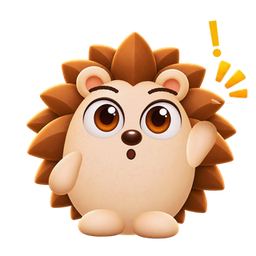
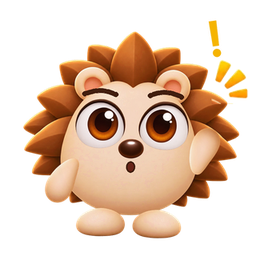
Owi más chato como en las fotos: barriga más corta, cara más grande y cejas más gruesas
Claude-Session: https://claude.ai/code/session_01HLnQv3HZtotnGzv56s2ETj

Changed region(s): [[0.0938, 0.1562, 0.9375, 0.9375], [0.4375, 0.1875, 0.4688, 0.25], [0.5625, 0.1562, 0.5938, 0.1875]]

diff --git a/tools/owi/rig2d/rig.py b/tools/owi/rig2d/rig.py
@@ -22,7 +22,8 @@ SS = 2              # supermuestreo
 C = FS * SS
 FPS = 20
 COLS = 8
-FOOT_Y = 1182       # línea de los pies en coordenadas del modelo (1254 px)
+FOOT_Y = 1150       # línea de los pies en coordenadas del modelo (1254 px)
+SQUAT_Y0, SQUAT = 600, 0.76   # Owi "chato": la barriga por debajo de la cara se encoge en vertical
 TOP_Y = 47
 K = 0.80 * C / (FOOT_Y - TOP_Y)   # modelo -> lienzo
 GROUND = 0.955 * C
@@ -31,18 +32,20 @@ DK = (66, 30, 14, 255)              # marrón de rasgos (cejas, boca, pestañas)
 FONT = '/usr/share/fonts/opentype/inter/InterDisplay-Bold.otf'
 
 # --- Colocación de las piezas sobre el cuerpo (coordenadas del modelo) ---
-EYE_W = 232
-EYE = {'L': (470, 528), 'R': (786, 528)}
-IRIS_W = 142
+FACE = 1.16                                     # tamaño de la cara respecto a la primera versión
+EYE_W = round(232 * FACE)
+EYE = {'L': (458, 548), 'R': (798, 548)}
+IRIS_W = round(142 * FACE)
 IRIS_REST = {'L': (14, 10), 'R': (-14, 10)}     # mirada en reposo, un poco hacia dentro
-NOSE = (628, 632, 118)
-MOUTH = (628, 722)
-SHOULDER = {'L': (300, 742), 'R': (954, 742)}
-ARM_W = 150
+NOSE = (628, 676, round(118 * FACE))
+MOUTH = (628, 772)
+BROW_Y = 392
+SHOULDER = {'L': (292, 760), 'R': (962, 760)}
+ARM_W = 146
 ARM_REST = {'L': -18, 'R': 18}                  # grados; positivo = la mano va hacia la derecha de la pantalla
-FOOT = {'L': (478, 1112), 'R': (778, 1112)}
+FOOT = {'L': (476, 1078), 'R': (780, 1078)}
 FOOT_W = 262
-CHEEK = {'L': (380, 668), 'R': (876, 668)}
+CHEEK = {'L': (366, 712), 'R': (890, 712)}
 
 P = load()
 
@@ -58,7 +61,21 @@ def M(x, y):
 
 
 # Piezas preescaladas
-BODY = P['body'].resize((round(1254 * K), round(1254 * K)), Image.LANCZOS)
+def squat(im):
+    """Encoge en vertical la parte de abajo del cuerpo (desde SQUAT_Y0) para que Owi sea más chato, como en las fotos."""
+    a = np.asarray(im)
+    H = a.shape[0]
+    ys = np.arange(H, dtype=np.float32)
+    src = np.where(ys <= SQUAT_Y0, ys, SQUAT_Y0 + (ys - SQUAT_Y0) / SQUAT)
+    out = np.zeros_like(a)
+    ok = src < H - 1
+    y0 = np.floor(src[ok]).astype(int)
+    t = (src[ok] - y0)[:, None, None]
+    out[ok] = (a[y0] * (1 - t) + a[y0 + 1] * t).astype(np.uint8)
+    return Image.fromarray(out)
+
+
+BODY = squat(P['body']).resize((round(1254 * K), round(1254 * K)), Image.LANCZOS)
 BODY_POS = (round(C / 2 - 627 * K), round(GROUND - FOOT_Y * K))
 EYES = {s: sc(P['eye' + s], EYE_W) for s in 'LR'}
 IRIS = sc(P['iris'], IRIS_W)
@@ -175,15 +192,15 @@ def draw_eye(fig, s, lid=0.0, gaze=(0, 0), iris_k=1.0, closed=None, sparkle=Fals
 
 
 # ---------------------------------------------------------------- cejas
-def draw_brows(fig, raise_=0.0, inner=0.0, arch=1.0, asym=0.0, w=19):
+def draw_brows(fig, raise_=0.0, inner=0.0, arch=1.0, asym=0.0, w=26):
     """raise_: sube (+) / baja (-) en px de modelo. inner: + sube la punta interior (preocupado), - la baja (decidido)."""
     d = ImageDraw.Draw(fig)
     for s in 'LR':
         ex, _ = EYE[s]
         sign = 1 if s == 'L' else -1          # hacia la nariz
-        y = 384 - raise_ - (asym if s == 'R' else -asym * 0.3)
-        outer = (ex - sign * 78, y + 14)
-        inn = (ex + sign * 66, y + 12 - inner)
+        y = BROW_Y - raise_ - (asym if s == 'R' else -asym * 0.3)
+        outer = (ex - sign * 78 * FACE, y + 14)
+        inn = (ex + sign * 66 * FACE, y + 12 - inner)
         mid = (ex - sign * 4, y - 22 * arch - inner * 0.25)
         pts = [M(*p) for p in quad(outer, mid, inn)]
         stroke(d, pts, w * K)
@@ -194,10 +211,10 @@ def draw_mouth(fig, kind='smile', open_=0.0, wide=1.0, dy=0.0):
     d = ImageDraw.Draw(fig)
     mx, my = MOUTH
     my += dy
-    hw = 70 * wide
+    hw = 70 * wide * FACE
     if kind == 'smile':
         pts = [M(*p) for p in quad((mx - hw, my - 10), (mx, my + 34 + 8 * open_), (mx + hw, my - 10))]
-        stroke(d, pts, 13 * K)
+        stroke(d, pts, 15 * K)
     elif kind == 'grin':   # boca abierta con lengua
         o = 0.55 + 0.45 * open_
         top = [(mx - hw, my - 14), (mx, my + 4), (mx + hw, my - 14)]
@@ -221,7 +238,7 @@ def draw_mouth(fig, kind='smile', open_=0.0, wide=1.0, dy=0.0):
         d.ellipse((x0, y0, x1, y1), fill=(104, 36, 24, 255), outline=DK, width=round(8 * K))
     elif kind == 'sad':
         pts = [M(*p) for p in quad((mx - hw * 0.7, my + 22), (mx, my - 8), (mx + hw * 0.7, my + 22))]
-        stroke(d, pts, 13 * K)
+        stroke(d, pts, 15 * K)
     elif kind == 'wavy':
         pts = []
         for i in range(31):
@@ -462,7 +479,7 @@ def frame(mood, p):
         elif e[0] == 'heart': heart(d, e[1] * C, e[2] * C, e[3] * U, alpha=max(0, e[4]))
         elif e[0] == 'hug':
             r = (26 if e[2] else 18) * U * e[1]
-            heart(d, 0.5 * C, 0.72 * C, r)
+            heart(d, 0.5 * C, 0.765 * C, r)
         elif e[0] == 'drop': drop(d, e[1] * C, e[2] * C, e[3] * U, alpha=e[4] if len(e) > 4 else 1)
         elif e[0] == 'text': text(img, e[1], e[2] * C, e[3] * C, e[4] * U, e[5], max(0, e[6]), e[7])
         elif e[0] == 'confetti': confetti(d, p)
